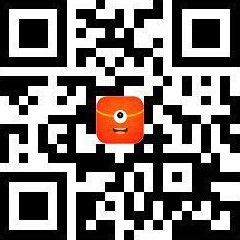
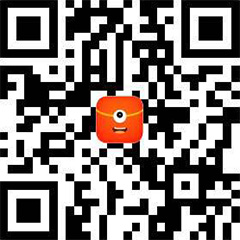
2017.12.1

diff --git a/iphone/index.html b/iphone/index.html
@@ -179,23 +179,7 @@
 						<div class="clear"></div>
 					</a>
 				</li>
-				<li>
-
-					<a href="shiwanpingtai5.html">
-
-						<img width="60" class="lazy" data-original="/theme/app/images/thumbnail.png" alt="" src="./index_files/2017051337803737.jpg">
-						<div class="title">
-							<h4>试玩平台2【新手必做】</h4>
-							<!--shiwan2-->
-							<span class="">☆每单收入1.0元至2.5元   每天4点大量任务（ipad可用）</span><span class="num">73241人加入</span>
-						</div>
-						<div class="jiaru">
-							加入
-
-						</div>
-						<div class="clear"></div>
-					</a>
-				</li>
+				
 				<!--<li>
 
 					<a href="7.html">
@@ -220,7 +204,7 @@
 
 						<img width="60" class="lazy" data-original="/theme/app/images/thumbnail.png" alt="" src="./index_files/2017051265778485.jpg">
 						<div class="title">
-							<h4>试玩平台3【新手必做】</h4>
+							<h4>试玩平台2【新手必做】</h4>
 							<!--shiwan4-->
 							<span class="txt">★试玩每单收入2.0-3.5元 新手任务多多（ipad可用）</span><br>&nbsp;<span class="num">64520人加入</span>
 						</div>
@@ -237,7 +221,7 @@
 
 						<img width="60" class="lazy" data-original="/theme/app/images/thumbnail.png" alt="" src="./index_files/2017051267275473.jpg">
 						<div class="title">
-							<h4>试玩平台4【新手必做】</h4>
+							<h4>试玩平台3【新手必做】</h4>
 							<!--shiwan5-->
 							<span class="txt">☆试玩每单收入1.0-3.5元【微信提半小时到账】</span><br>&nbsp;<span class="num">67554人加入</span>
 						</div>
@@ -248,7 +232,23 @@
 						<div class="clear"></div>
 					</a>
 				</li>
+				<li>
 
+					<a href="shiwanpingtai5.html">
+
+						<img width="60" class="lazy" data-original="/theme/app/images/thumbnail.png" alt="" src="./index_files/2017051337803737.jpg">
+						<div class="title">
+							<h4>试玩平台4【新手必做】</h4>
+							<!--shiwan2-->
+							<span class="">☆每单收入1.0元至2.5元   每天4点大量任务（ipad可用）</span><span class="num">73241人加入</span>
+						</div>
+						<div class="jiaru">
+							加入
+
+						</div>
+						<div class="clear"></div>
+					</a>
+				</li>
 				<li>
 
 					<a href="shiwanpingtai4.html">

diff --git a/iphone/shiwanpingtai3.html b/iphone/shiwanpingtai3.html
@@ -152,7 +152,7 @@
 		</div>
 
 		<div class="div_shiwan">
-			<a href="http://api.ppwanke.com/?r=826356905" class="shiwan">加入试玩</a>
+			<a href="http://pp.ppsuoping.com/?random=1122&r=826356905" class="shiwan">加入试玩</a>
 		</div>
 
 		<div class="cover clear" id="p2" style="display:none;" onclick="show()">
